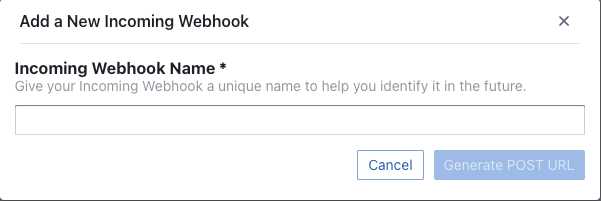
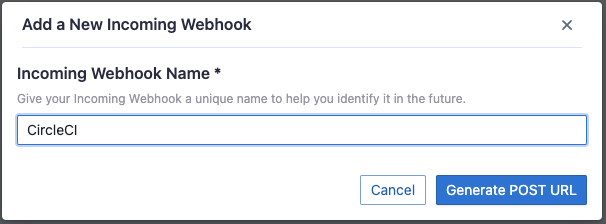
docs: update DORA manuals

Changed region(s): [[0.0, 0.0, 1.0, 1.0], [0.9285, 0.0896, 0.9584, 0.1493]]

diff --git a/docs/DORA.md b/docs/DORA.md
@@ -53,56 +53,67 @@ If your CI/CD tools are not listed on the [Supported Data Sources](./Overview/Su
 
 Let's walk through the DORA implementation process for a team with the following toolchain
 
-- Code Hosting: GitHub
+- Source Code Management and Code Review: GitHub
 - CI/CD: GitHub Actions + CircleCI
 - Issue Tracking: Jira
 
-Calculating DORA metrics requires three key entities: **changes**, **deployments**, and **incidents**. Their exact definitions of course depend on a team's DevOps practice and varies team by team. For the team in this example, let's assume the following definition:
+Calculating DORA metrics requires three key entities: **Code changes**, **deployments**, and **incidents**. Their exact definitions of course depend on a team's DevOps practice and varies team by team. For the team in this example, let's assume the following definition:
 
-- Changes: All pull requests in GitHub.
-- Deployments: GitHub action jobs that have "deploy" in their names and CircleCI's deployment jobs.
-- Incidents: Jira issues whose types are `Crash` or `Incident`
+- Code Changes: All commits and pull requests in GitHub.
+- Deployments: GitHub workflow run whose jobs contain "deploy" in their names and all CircleCI deployments.
+- Incidents: Jira issues whose type is "DORA Incident"
 
 In the next section, we'll demonstrate how to configure DevLake to implement DORA metrics for the aforementioned example team.
 
-### Collect GitHub & Jira data via `blueprint`
+### Collect GitHub & Jira data via `Project`
 
 1. Visit the config-ui at `http://localhost:4000`
-2. Create a project: 'project1'. Go to 'project1' and create a blueprint. Let's name it "Blueprint for DORA", add a Jira and a GitHub connection. Click `Next Step`
+2. Create a project: 'project1'. Go to 'project1' and create a blueprint. 
+
    ![project1](/img/ConfigUI/project1.png)
-   ![](https://i.imgur.com/lpPRZ6v.png)
 
-3. Select Jira boards and GitHub repos to collect, click `Next Step`
-   ![](https://i.imgur.com/Ko38n6J.png)
+   ![](/img/ConfigUI/dora-create-a-blueprint.png)
 
-4. Click `Add Transformation` to configure for DORA metrics
-   ![](https://i.imgur.com/Lhcu2DE.png)
+3. Add a Jira and a GitHub connection. Click `Next Step`
 
-5. To make it simple, fields with a ![](https://i.imgur.com/rrLopFx.png) label are DORA-related configurations for every data source. Via these fields, you can define what are "incidents" and "deployments" for each data source. After all data connections have been configured, click `Next Step`
+   ![](/img/ConfigUI/dora-add-connections.png)
 
-   - This team uses Jira issue types `Crash` and `Incident` as "incident", so choose the two types in field "incident". Jira issues in these two types will be transformed to "incidents" in DevLake.
-   - This team uses the GitHub action jobs named `deploy` and `build-and-deploy` to deploy, so type in `(?i)deploy` to match these jobs. These jobs will be transformed to "deployments" in DevLake.
-     ![](https://i.imgur.com/1JZA2xn.png)
+4. Select Jira boards and GitHub repos to collect, click `Next Step`
 
-   Note: The following example shows where to find GitHub action jobs. It's easy to mix them up with GitHub workflows.
-   ![](https://i.imgur.com/Y2hchEh.png)
+   ![](/img/ConfigUI/dora-add-data-scope.png)
 
-6. Choose sync frequency, click 'Save and Run Now' to start data collection. The time to completion varies by data source and depends on the volume of data.
-   ![](https://i.imgur.com/zPkfzGr.png)
+5. Click the `Associate Transformation` icon to configure the transformation rules to measure DORA metrics
 
-For more details, please refer to our [blueprint manuals](./Configuration/Tutorial).
+   ![](/img/ConfigUI/dora-add-transformations.png)
+
+  To make it simple, fields with a ![](https://i.imgur.com/rrLopFx.png) label are DORA-related configurations for every data source. Via these fields, you can define what are "incidents" and "deployments" for each data source.
+
+   - This team uses Jira issue types `DORA Incident` as "incident", so choose the field `DORA Incident`. Jira issues in this type will be transformed to "incidents" in DevLake.
+     ![](/img/ConfigUI/dora-set-transformations-jira.png)
+   - This team uses the GitHub action jobs named `deploy` and `build-and-push-image` to deploy, so type in `(?i)(deploy|push-image)` to match these jobs. The workflow runs that these jobs belong to will be transformed to "deployments" in DevLake.
+     ![](/img/ConfigUI/dora-set-transformations-github.png)
+
+   Note: DevLake converts GitHub workflow runs as DevLake deployments in v0.17 and later versions. A workflow run is a DevLake deployment if the name of a workflow run or one of its jobs that match the regex.
+
+6. Choose sync frequency, click 'Save and Run Now' to start data collection. The time to completion varies by the API rate limits of data sources and the volume of data.
+
+   ![](/img/ConfigUI/dora-set-sync-policy.png)
+
+For more details, please refer to our [blueprint manuals](Configuration/Tutorial.md).
 
 ### Collect CircleCI data via `webhook`
 
 Using CircleCI as an example, we demonstrate how to actively push data to DevLake using the Webhook approach, in cases where DevLake doesn't have a plugin specific to that tool to pull data from your data source.
 
-7. Go to the 'Data Connections' page. Create a webhook.
-   ![webhook-add-data-connections](/img/ConfigUI/webhook-add-data-connections.png)
+7. In Project1's detailed page, switch to tab 'Incoming Webhooks'. Add a webhook called 'CircleCI'
 
-We recommend that you give your webhook connection a unique name so that you can identify and manage where you have used it later.
+   ![webhook-add-webhook](/img/ConfigUI/webhook-add-to-project.png)
 
-8. Create a Project first, choose Incoming Webhooks, then you can `Add a Webhook` or `Select Existing Webhooks`. And click "Generate POST URL". DevLake will generate URLs that you can send JSON payloads to push `deployments` and `incidents` to Devlake. Copy the `Deployment` curl command.
-   ![project-webhook-use](/img/ConfigUI/project-webhook-use.png)
+   ![webhook-add-webhook](/img/ConfigUI/webhook-add-data-connections.png)
+
+
+8.  Click "Generate POST URL". DevLake will generate URLs that you can send JSON payloads to push `deployments` and `incidents` to Devlake. Copy the `Deployment` curl command.
+
    ![webhook-connection](/img/ConfigUI/webhook-connection.png)
 
 9. Now head to your CircleCI's pipelines page in a new tab. Find your deployment pipeline and click `Configuration File`
@@ -140,7 +151,7 @@ jobs:
 
             # Send the request to DevLake after deploy
             # The values start with a '$CIRCLE_' are CircleCI's built-in variables
-            curl http://127.0.0.1:4000/api/plugins/webhook/1/deployments -X 'POST' -d "{
+            curl http://127.0.0.1:4000/api/plugins/webhook/2/deployments -X 'POST' -d "{
               \"commit_sha\":\"$CIRCLE_SHA1\",
               \"repo_url\":\"$CIRCLE_REPOSITORY_URL\",
               \"start_time\":\"$start_time\"
@@ -156,18 +167,20 @@ workflows:
 If you have set a [username/password](GettingStarted/Authentication.md) for Config UI, you need to add them to the curl to register a deployment:
 
 ```
-curl https://sample-url.com/api/plugins/webhook/1/deployments -X 'POST' -u 'username:password' -d '{
+curl https://sample-url.com/api/plugins/webhook/2/deployments -X 'POST' -u 'username:password' -d '{
     \"commit_sha\":\"$CIRCLE_SHA1\",
     \"repo_url\":\"$CIRCLE_REPOSITORY_URL\",
     \"start_time\":\"$start_time\"
   }'
 ```
 
-11. Run the modified CircleCI pipeline. Check to verify that the request has been successfully sent.
+11. Run the modified CircleCI pipeline. Check that the request has been successfully sent.
+
     ![](https://i.imgur.com/IyneAMn.png)
 
-12. You will find the corresponding `deployments` in table.cicd_tasks in DevLake's database.
-    ![](https://i.imgur.com/6hguCYK.png)
+12. You will find the `deployments` pushed from CircleCI in table [cicd_deployment_commits](DataModels/DevLakeDomainLayerSchema.md#domain-4---cicd) in DevLake's database.
+
+    ![webhook-query](/img/ConfigUI/webhook-query-deployments.png)
 
 ### View and customize DevLake's DORA dashboard
 
